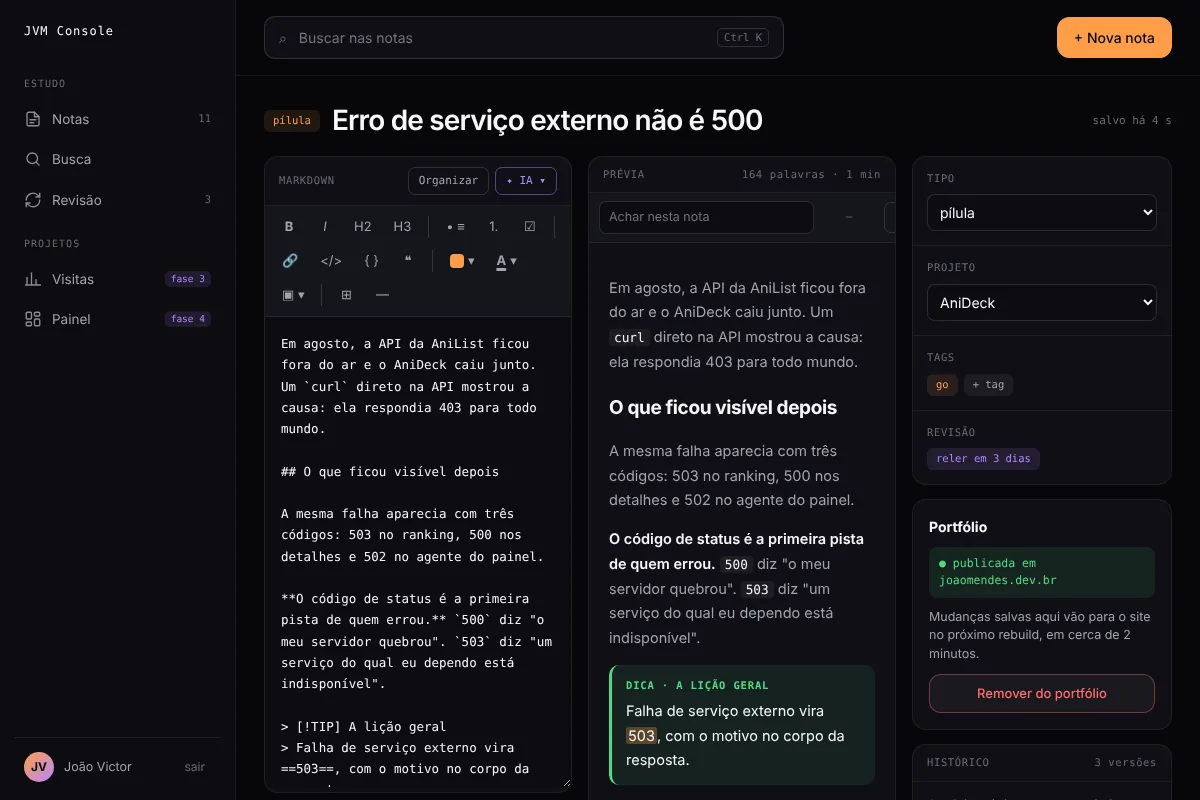
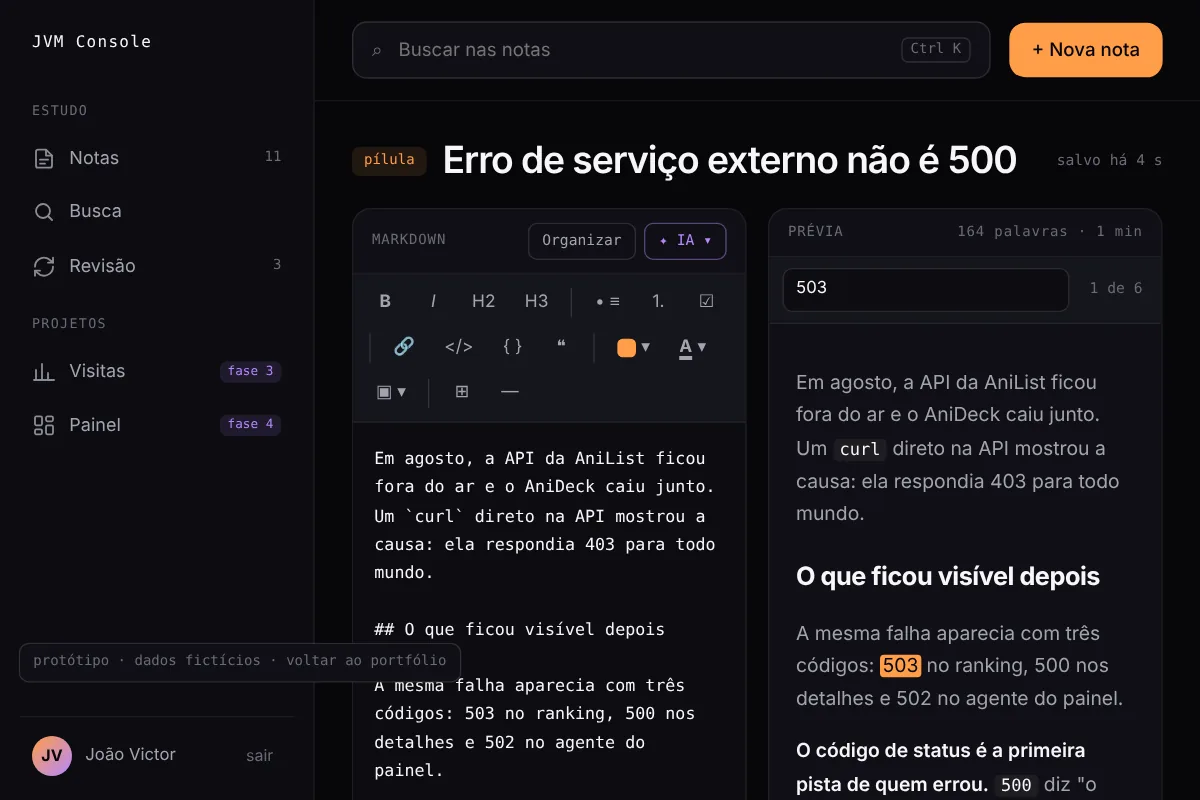
docs(projetos): JVM Console na fase 1, CI separado do deploy nas competências e capa legível

diff --git a/src/data/competencias.ts b/src/data/competencias.ts
@@ -15,6 +15,7 @@ export interface Competencia {
 
 const ANIDECK: Prova = { projeto: 'anideck' };
 const GRIMOIRE: Prova = { projeto: 'grimoire' };
+const JVM_CONSOLE: Prova = { projeto: 'jvm-console' };
 const ESTE_SITE: Prova = { rotulo: 'este site', href: 'https://github.com/JoaoMendes1/jvm-systems' };
 
 export const COMPETENCIAS: Competencia[] = [
@@ -46,7 +47,8 @@ export const COMPETENCIAS: Competencia[] = [
     area: 'Infra e processo',
     itens: [
       { texto: 'VPS Linux, Docker e Caddy com HTTPS automático', provas: [ANIDECK, GRIMOIRE, ESTE_SITE] },
-      { texto: 'CI/CD com GitHub Actions: deploy a cada push', provas: [ANIDECK, GRIMOIRE, ESTE_SITE] },
+      { texto: 'Deploy automático com GitHub Actions a cada push na main', provas: [ANIDECK, GRIMOIRE, ESTE_SITE] },
+      { texto: 'CI com GitHub Actions: build e checagem de tipos a cada push na staging', provas: [JVM_CONSOLE, ESTE_SITE] },
       { texto: 'Git com staging e main, issues e decisões documentadas', provas: [ANIDECK, GRIMOIRE, ESTE_SITE] },
     ],
   },

diff --git a/src/content.config.ts b/src/content.config.ts
@@ -4,7 +4,7 @@ import { glob } from 'astro/loaders';
 import { z } from 'astro/zod';
 
 // Lista fechada: tag digitada errado quebra o build em vez de criar uma
-// categoria nova com uma pílula só. Tag nova muda o contrato e pede issue.
+// categoria nova com uma pílula só. Como mudar a lista: docs/CONTEUDO.md.
 const TAGS = ['infra', 'go', 'banco', 'deploy', 'frontend', 'seguranca', 'ia'] as const;
 
 // Só https, para o site nunca apontar para um endereço sem certificado.
